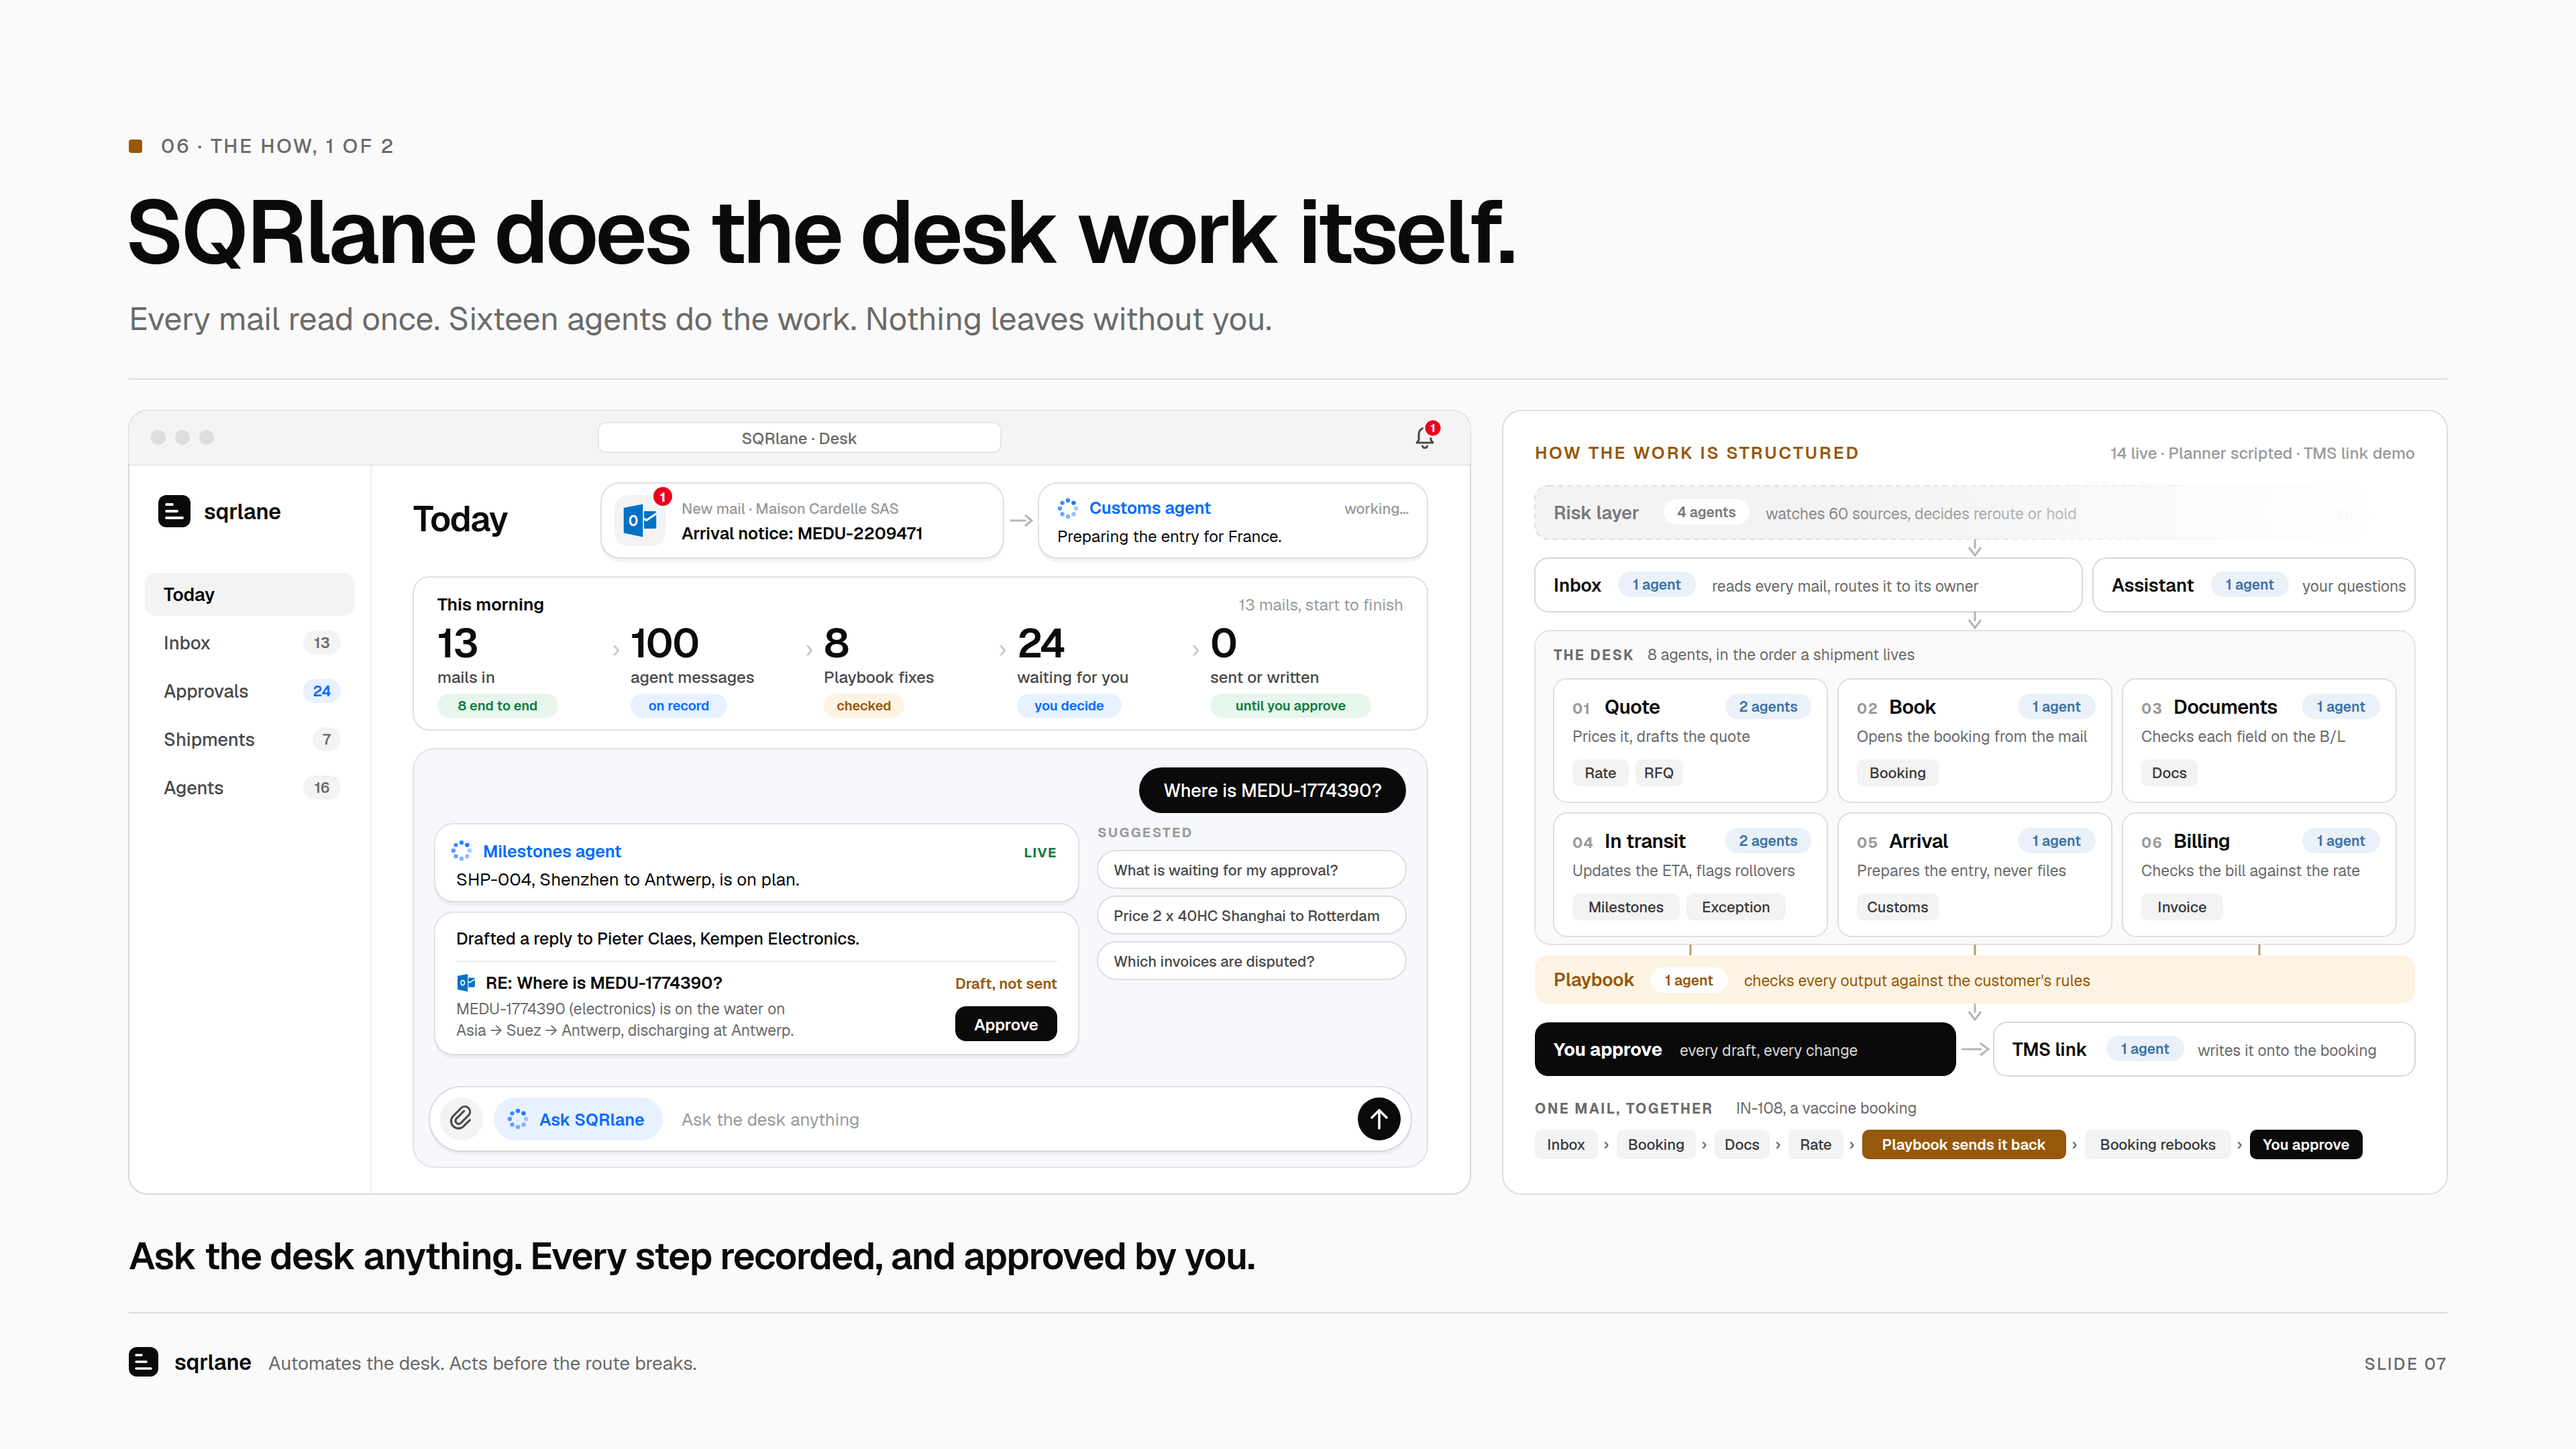
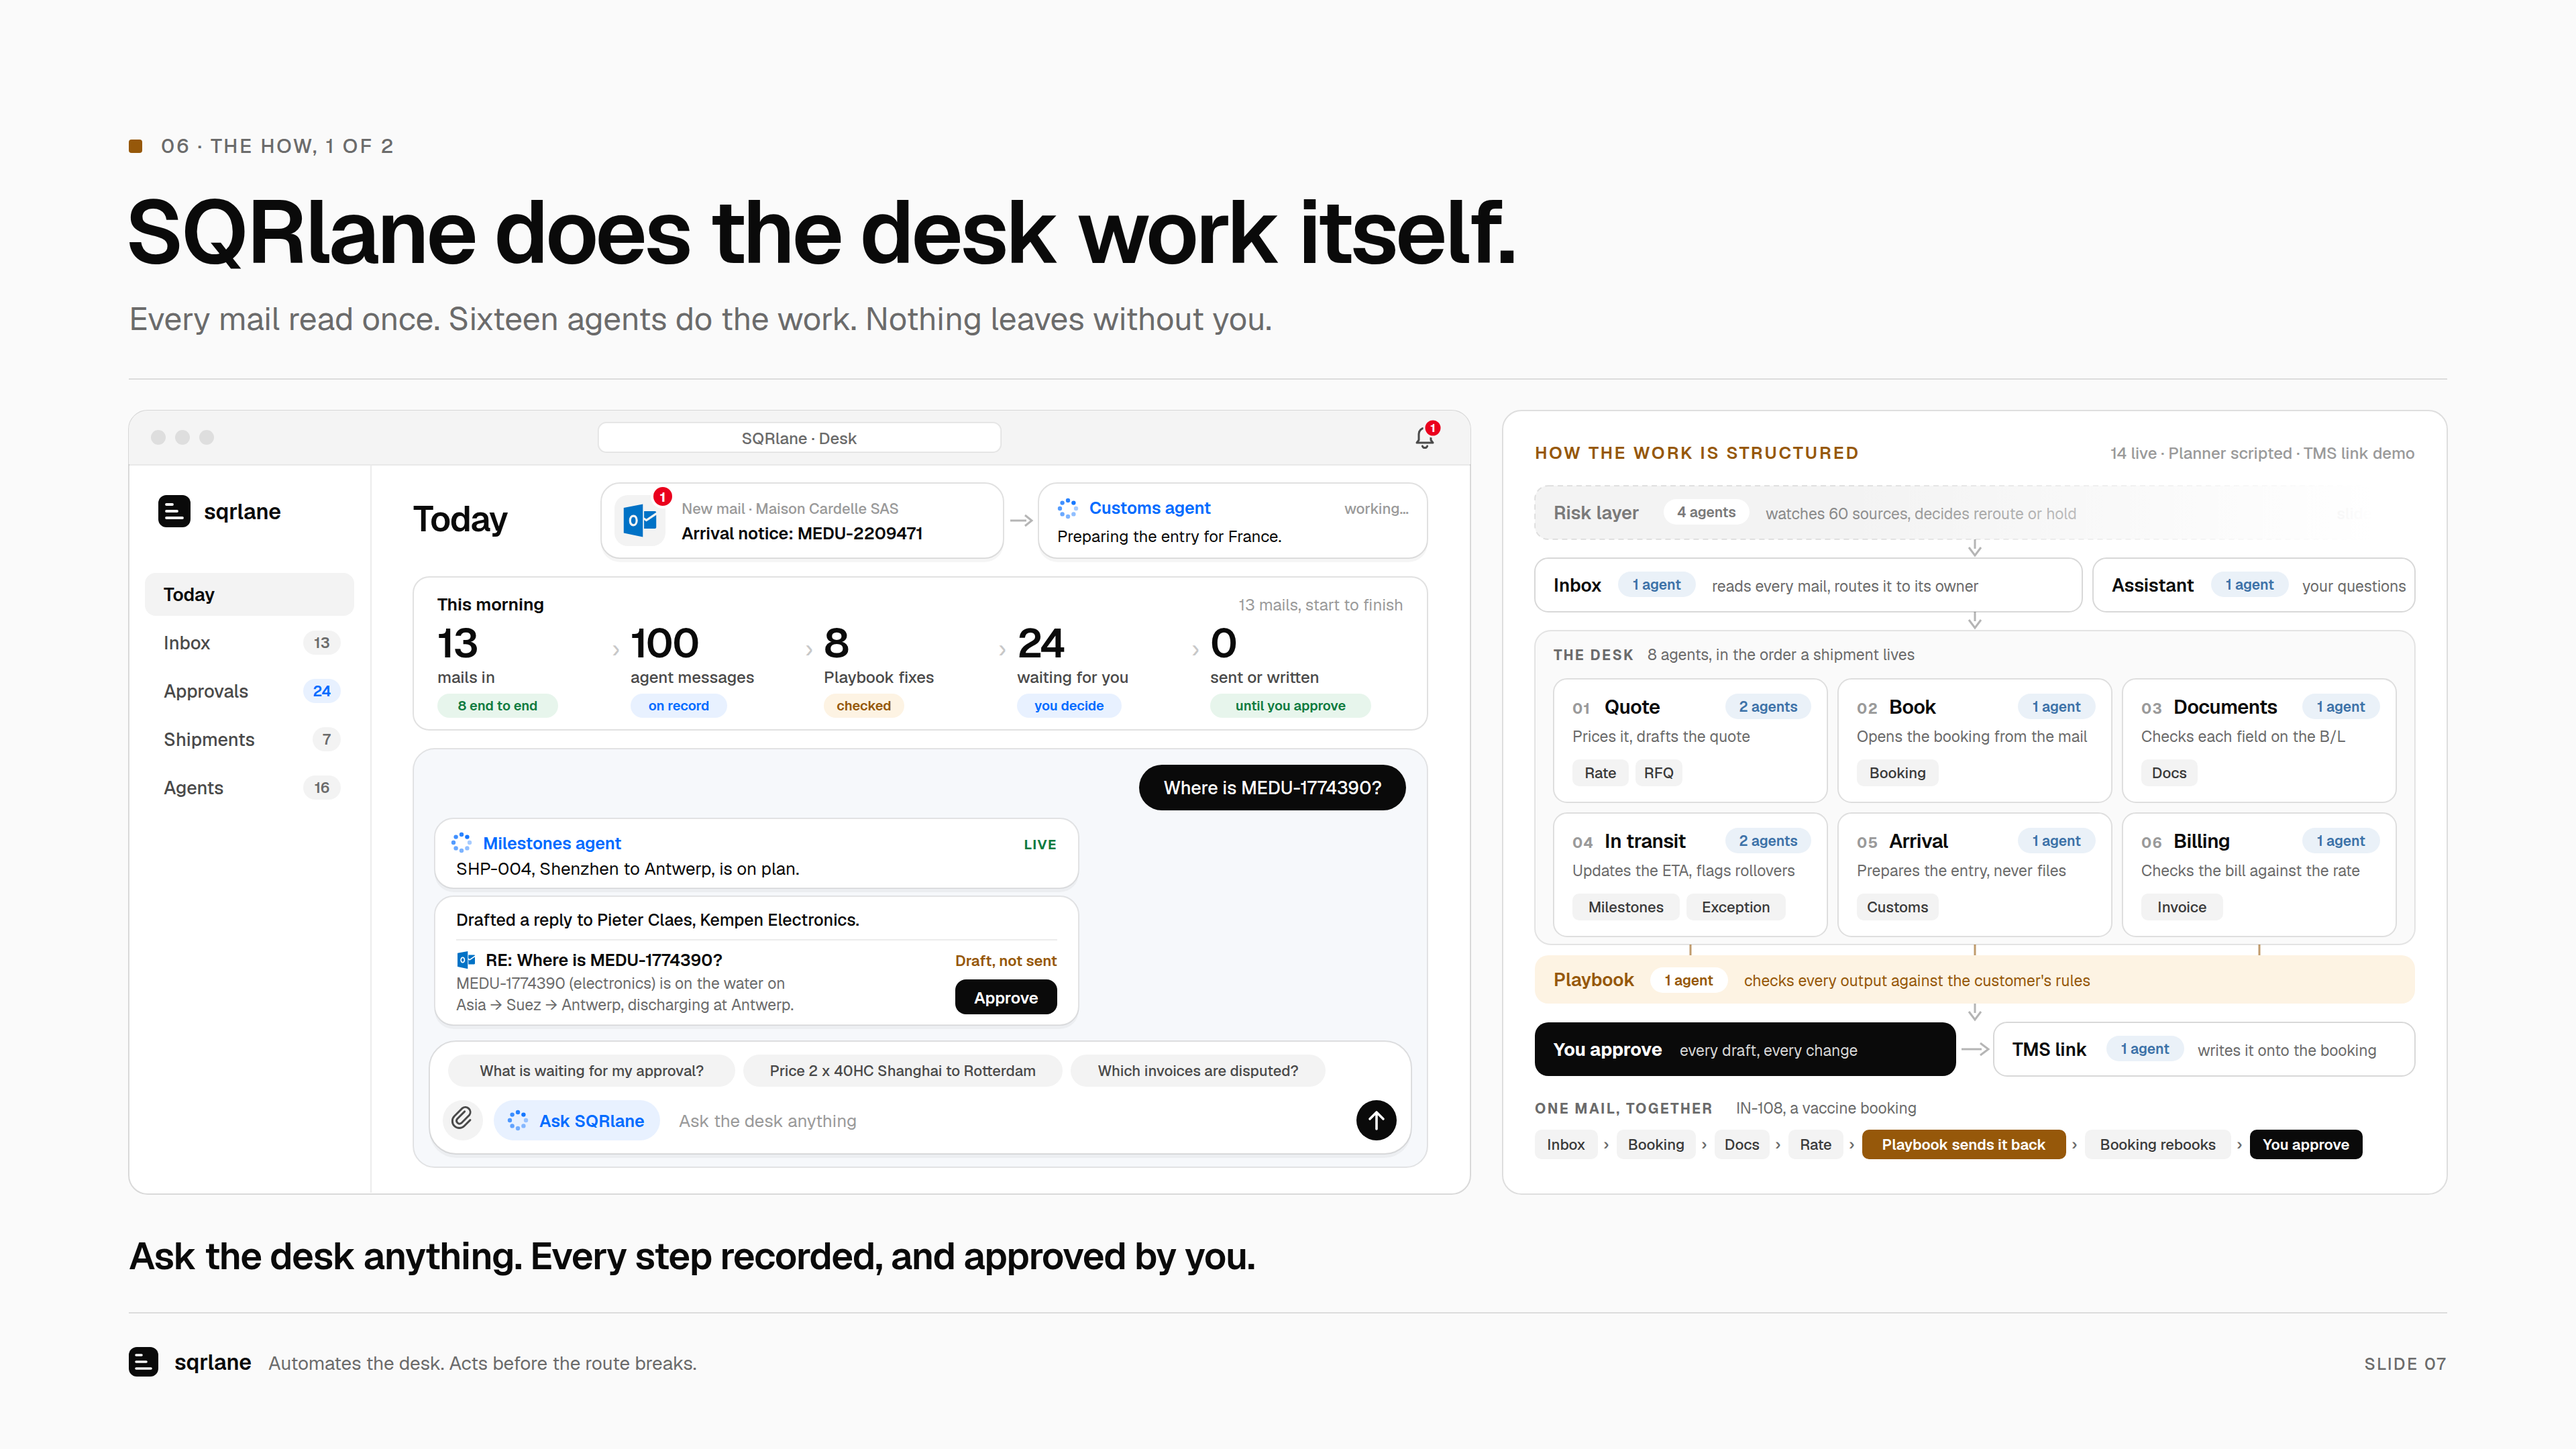
Deck v2 slide 07: suggested questions inside the Ask box
Claude-Session: https://claude.ai/code/session_014BsH9ow2RbGmbV9G28PBg8

Changed region(s): [[0.1562, 0.5583, 0.5, 0.7755], [0.4375, 0.5273, 0.5312, 0.6824], [0.5312, 0.7444, 0.5625, 0.7755]]

diff --git a/deck/v2/build_07.py b/deck/v2/build_07.py
@@ -144,51 +144,50 @@ CY0 = OY + OH + 14; CHh = BOT - 20 - CY0
 CHAT_BG = "#F6F8FB"
 s.g("chat-window")
 s.R(MX, CY0, MW, CHh, CHAT_BG, 16, f' stroke="{INK}" stroke-opacity="0.10"')
-cy = CY0 + 14
+cy = CY0 + 12
 q = "Where is MEDU-1774390?"
 qw = round(len(q) * 7.6 + 32)
 s.R(MX + MW - 16 - qw, cy, qw, 34, INK, 17)
 s.T(MX + MW - 16 - qw / 2, cy + 22, q, 13.5, 500, CARD, anchor="middle")
-cy += 42
+cy += 40
 BWb = 480
-soft_card(MX + 16, cy, BWb, 58, 14, op=0.10)
-agent_mark(MX + 36, cy + 20)
-s.T(MX + 52, cy + 25, "Milestones agent", 12.5, 600, BLUE)
-s.T(MX + 16 + BWb - 16, cy + 25, "LIVE", 10, 700, GREEN, anchor="end", ls=0.8)
-s.T(MX + 32, cy + 46, "SHP-004, Shenzhen to Antwerp, is on plan.", 13, 400, INK)
-cy += 66
-DHh = 106
+soft_card(MX + 16, cy, BWb, 52, 14, op=0.10)
+agent_mark(MX + 36, cy + 18)
+s.T(MX + 52, cy + 23, "Milestones agent", 12.5, 600, BLUE)
+s.T(MX + 16 + BWb - 16, cy + 23, "LIVE", 10, 700, GREEN, anchor="end", ls=0.8)
+s.T(MX + 32, cy + 42, "SHP-004, Shenzhen to Antwerp, is on plan.", 13, 400, INK)
+cy += 58
+DHh = 96
 soft_card(MX + 16, cy, BWb, DHh, 14, op=0.10)
-s.T(MX + 32, cy + 24, "Drafted a reply to Pieter Claes, Kempen Electronics.", 12.5, 500, INK)
-s.rule(cy + 36, 0.08, MX + 32, BWb - 32)
-mark("Outlook", MX + 32, cy + 45, 15)
-s.T(MX + 54, cy + 57, "RE: Where is MEDU-1774390?", 12.5, 600)
-s.T(MX + 32, cy + 76, "MEDU-1774390 (electronics) is on the water on", 11.5, 400, MUT)
-s.T(MX + 32, cy + 92, "Asia → Suez → Antwerp, discharging at Antwerp.", 11.5, 400, MUT)
-s.T(MX + 16 + BWb - 16, cy + 57, "Draft, not sent", 11, 600, AMBR, anchor="end")
-s.R(MX + 16 + BWb - 92, cy + DHh - 36, 76, 26, INK, 8)
-s.T(MX + 16 + BWb - 54, cy + DHh - 18, "Approve", 12, 600, CARD, anchor="middle")
-# suggested questions, beside the replies - each one answered by ask.ask() today
-SX_ = MX + 16 + BWb + 14; SW_ = MX + MW - 16 - SX_
-sy_ = CY0 + 66
-s.T(SX_, sy_, "SUGGESTED", 10, 700, GREY, ls=1.2)
-sy_ += 10
+s.T(MX + 32, cy + 22, "Drafted a reply to Pieter Claes, Kempen Electronics.", 12.5, 500, INK)
+s.rule(cy + 32, 0.08, MX + 32, BWb - 32)
+mark("Outlook", MX + 32, cy + 40, 15)
+s.T(MX + 54, cy + 52, "RE: Where is MEDU-1774390?", 12.5, 600)
+s.T(MX + 32, cy + 69, "MEDU-1774390 (electronics) is on the water on", 11.5, 400, MUT)
+s.T(MX + 32, cy + 85, "Asia → Suez → Antwerp, discharging at Antwerp.", 11.5, 400, MUT)
+s.T(MX + 16 + BWb - 16, cy + 52, "Draft, not sent", 11, 600, AMBR, anchor="end")
+s.R(MX + 16 + BWb - 92, cy + DHh - 34, 76, 26, INK, 8)
+s.T(MX + 16 + BWb - 54, cy + DHh - 16, "Approve", 12, 600, CARD, anchor="middle")
+# the Ask box: suggested questions as chips inside it, then the input line.
+# Each suggestion is one ask.ask() answers today.
+IH = 84; IY = CY0 + CHh - IH - 10
+soft_card(MX + 12, IY, MW - 24, IH, 20, op=0.12)
+sx = MX + 26
 for sq in ("What is waiting for my approval?", "Price 2 x 40HC Shanghai to Rotterdam", "Which invoices are disputed?"):
-    s.R(SX_, sy_, SW_, 28, CARD, 14, f' stroke="{INK}" stroke-opacity="0.12"')
-    s.T(SX_ + 12, sy_ + 18.5, sq, 11, 500, "#4A4A4A")
-    sy_ += 34
-# the input
-IY = CY0 + CHh - 60
-soft_card(MX + 12, IY, MW - 24, 48, 24, op=0.12)
-s.R(MX + 20, IY + 8, 32, 32, GREY_BG, 16)
-s.raw(f'<path d="M{MX+41} {IY+19} l-7.5 7.5 a3 3 0 0 0 4.2 4.2 l8 -8 a5 5 0 0 0 -7 -7 l-8 8 a7 7 0 0 0 9.9 9.9 l6 -6" '
-      f'transform="translate(-2 -2) scale(0.78) translate({(MX+36)*0.282:.1f} {(IY+24)*0.282:.1f})" stroke="#4A4A4A" stroke-width="2" fill="none" stroke-linecap="round"/>')
-s.R(MX + 60, IY + 8, 126, 32, BLUE_BG, 16)
-agent_mark(MX + 78, IY + 24)
-s.T(MX + 94, IY + 29, "Ask SQRlane", 12.5, 600, BLUE)
-s.T(MX + 200, IY + 29, "Ask the desk anything", 13, 400, GREY)
-s.raw(f'<circle cx="{MX + MW - 36}" cy="{IY + 24}" r="16" fill="{INK}"/>')
-s.raw(f'<path d="M{MX+MW-36} {IY+31} v-13 M{MX+MW-41.5} {IY+23} l5.5 -5.5 l5.5 5.5" stroke="{CARD}" stroke-width="1.8" fill="none" stroke-linecap="round" stroke-linejoin="round"/>')
+    w = round(len(sq) * 6.0 + 22)
+    s.R(sx, IY + 10, w, 24, GREY_BG, 12)
+    s.T(sx + w / 2, IY + 26, sq, 11, 500, "#4A4A4A", anchor="middle")
+    sx += w + 6
+ly = IY + 42
+s.R(MX + 22, ly + 2, 30, 30, GREY_BG, 15)
+s.raw(f'<path d="M{MX+42} {ly+12} l-7.5 7.5 a3 3 0 0 0 4.2 4.2 l8 -8 a5 5 0 0 0 -7 -7 l-8 8 a7 7 0 0 0 9.9 9.9 l6 -6" '
+      f'transform="translate(-2 -2) scale(0.74) translate({(MX+37)*0.35:.1f} {(ly+17)*0.35:.1f})" stroke="#4A4A4A" stroke-width="2" fill="none" stroke-linecap="round"/>')
+s.R(MX + 60, ly + 2, 124, 30, BLUE_BG, 15)
+agent_mark(MX + 78, ly + 17)
+s.T(MX + 94, ly + 22, "Ask SQRlane", 12.5, 600, BLUE)
+s.T(MX + 198, ly + 22, "Ask the desk anything", 13, 400, GREY)
+s.raw(f'<circle cx="{MX + MW - 38}" cy="{ly + 17}" r="15" fill="{INK}"/>')
+s.raw(f'<path d="M{MX+MW-38} {ly+23.5} v-12.5 M{MX+MW-43} {ly+16} l5 -5 l5 5" stroke="{CARD}" stroke-width="1.8" fill="none" stroke-linecap="round" stroke-linejoin="round"/>')
 s.end()
 s.end()
 

diff --git a/deck/v2/HANDOFF.md b/deck/v2/HANDOFF.md
@@ -46,7 +46,7 @@ in git at `d4af2cc:deck/v2/slide-06-the-job-2-b.svg` if the owner asks again.
   reference: tinted body, the question bubble, a Milestones agent card (LIVE), the draft
   card "Drafted a reply to Pieter Claes, Kempen Electronics." with the real IN-106 reply,
   "Draft, not sent" and Approve, and the input with the paperclip and "Ask SQRlane".
-  Three suggested questions sit as chips beside the replies.
+  Three suggested questions sit as chips inside the Ask box, above the input line. The dashboard keeps the product's bright blue (owner's choice); the right panel uses the deck's muted blue.
 - **Risk layer band** fades out to the right (a white gradient over its right half), on
   the owner's instruction.
 - **The "Demo run · synthetic inbox" label was removed on the owner's instruction.** The
